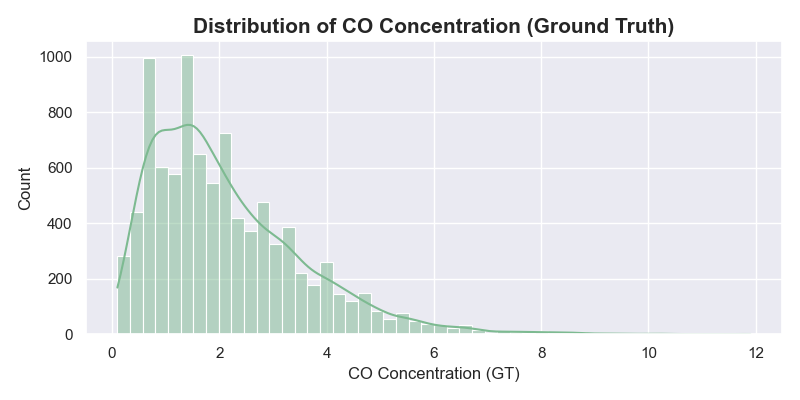
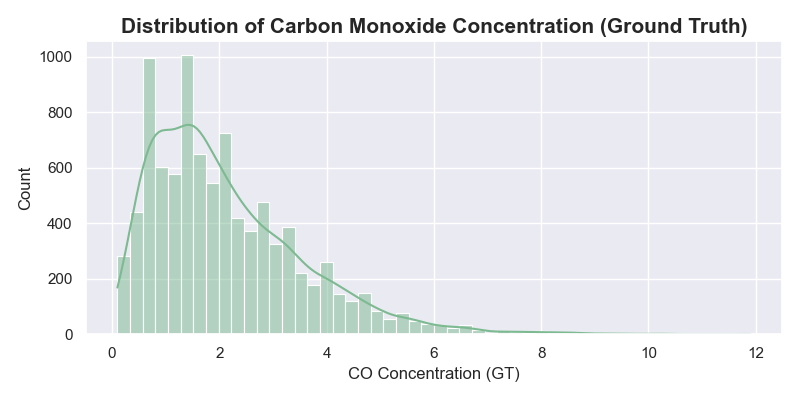
refactor: restructure main and added the needed variables for distribution analysis

Changed region(s): [[0.1562, 0.03, 0.9375, 0.09]]

diff --git a/main.py b/main.py
@@ -15,27 +15,43 @@ GRAPH_DIR.mkdir(parents=True, exist_ok=True)
 
 def main():
 
+    # ----------------------------------------------------------
     # Data cleaning
+    # ----------------------------------------------------------
+
     logger.info('Cleaning Data')
     df = data_clean()
     logger.info('Data Cleaned')
 
+    # ----------------------------------------------------------
     # Exploratory Data Analysis
+    # ----------------------------------------------------------
+
     logger.info('Create object explore with dataframe')
     explore = Exploratory(df)
 
-    # for CO distribution
-    title_co = 'Distribution of CO Concentration (Ground Truth)'
-    var_co = 'CO(GT)'
-    xlabel_co = 'CO Concentration (GT)'
+    # ----------------------------------------------------------
+    # 1. Distribution
 
-    logger.info('Creating histogram for CO distribution')
-    fig_co = explore.distribution(title_co, var_co, xlabel_co)
-    logger.info('Created.')
+    plot = [
+        ('Distribution of Carbon Monoxide Concentration (Ground Truth)', 'CO(GT)', 'CO Concentration (GT)', 'histogram_co.png'),
+        ('Distribution of Non-Metanic HydroCarbons (Ground Truth)', 'NMHC(GT)', 'NMHC Concentration (GT)', 'histogram_nmhc.png'),
+        ('Distribution of Nitrous Oxides (Ground Truth)', 'NOx(GT)', 'NOx Concentration (GT)', 'histogram_nox.png'),
+        ('Distribution of Nitrous Dioxide (Ground Truth)', 'NO2(GT)', 'NOx Concentration (GT)', 'histogram_no2.png')
+    ]
 
-    # save figure
-    fig_co.savefig(GRAPH_DIR / 'histogram_co.png')
-    logger.info(f'Figure saved to {GRAPH_DIR}')
+    for title, var, xlabel, filename in plot:
+        logger.info(f'Creating histogram for {var} distribution')
+        fig = explore.distribution(title, var, xlabel)
+        fig.savefig(GRAPH_DIR / filename)
+        logger.info(f'Figure saved to {GRAPH_DIR}')
+
+    # ----------------------------------------------------------
+    # 2. Trends over time
+
+    # TODO: function for line plot
+
+
 
 if __name__ == '__main__':
     main()
